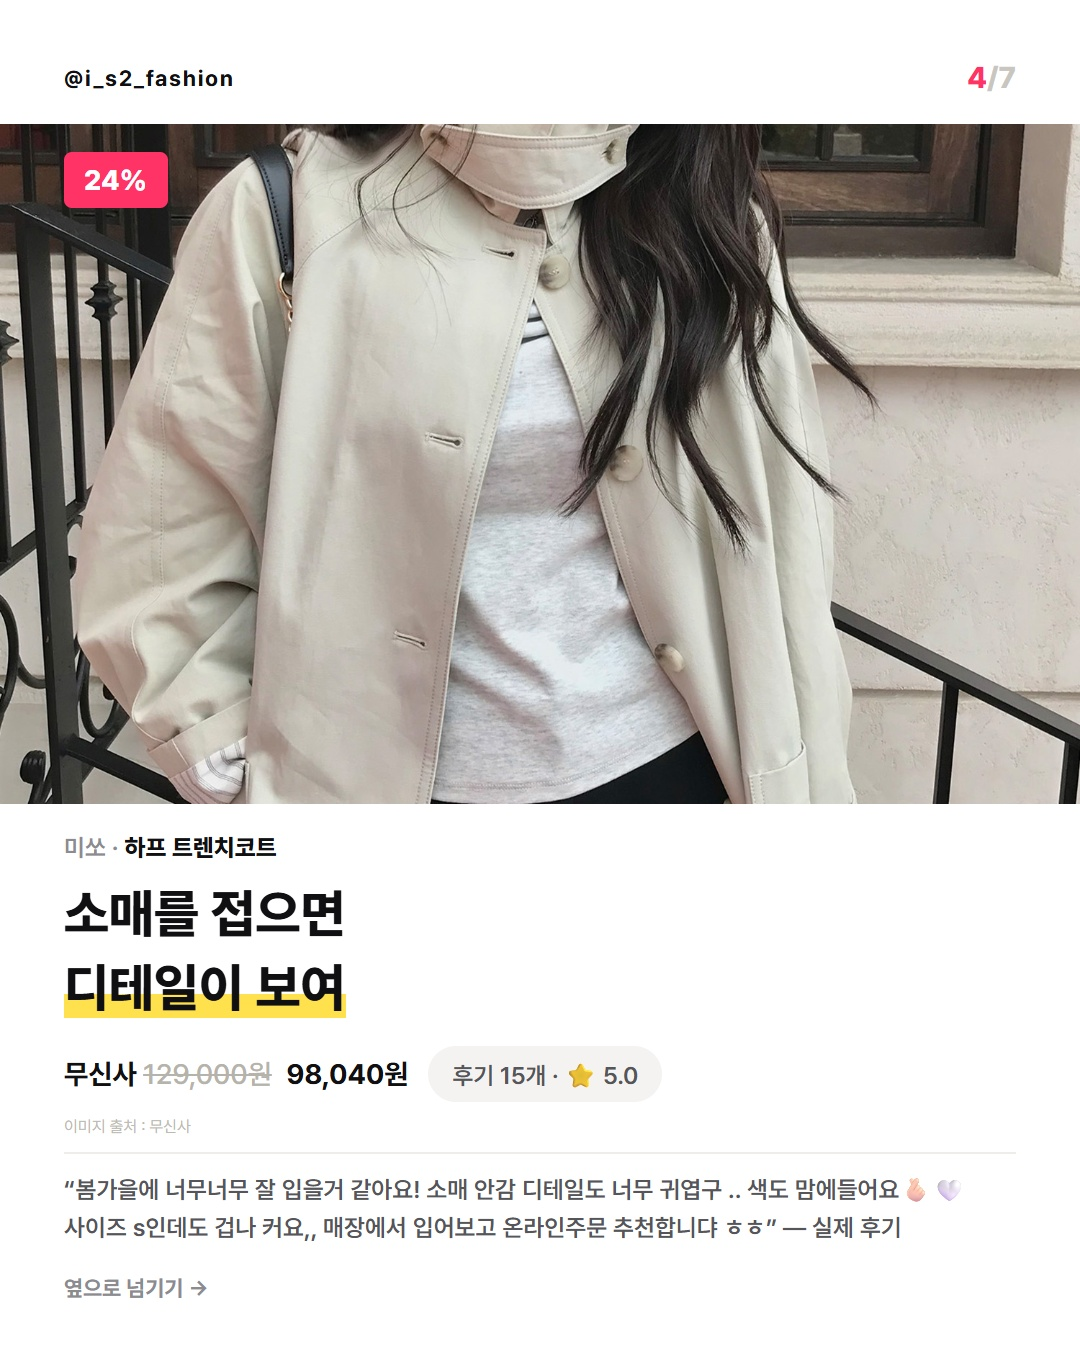
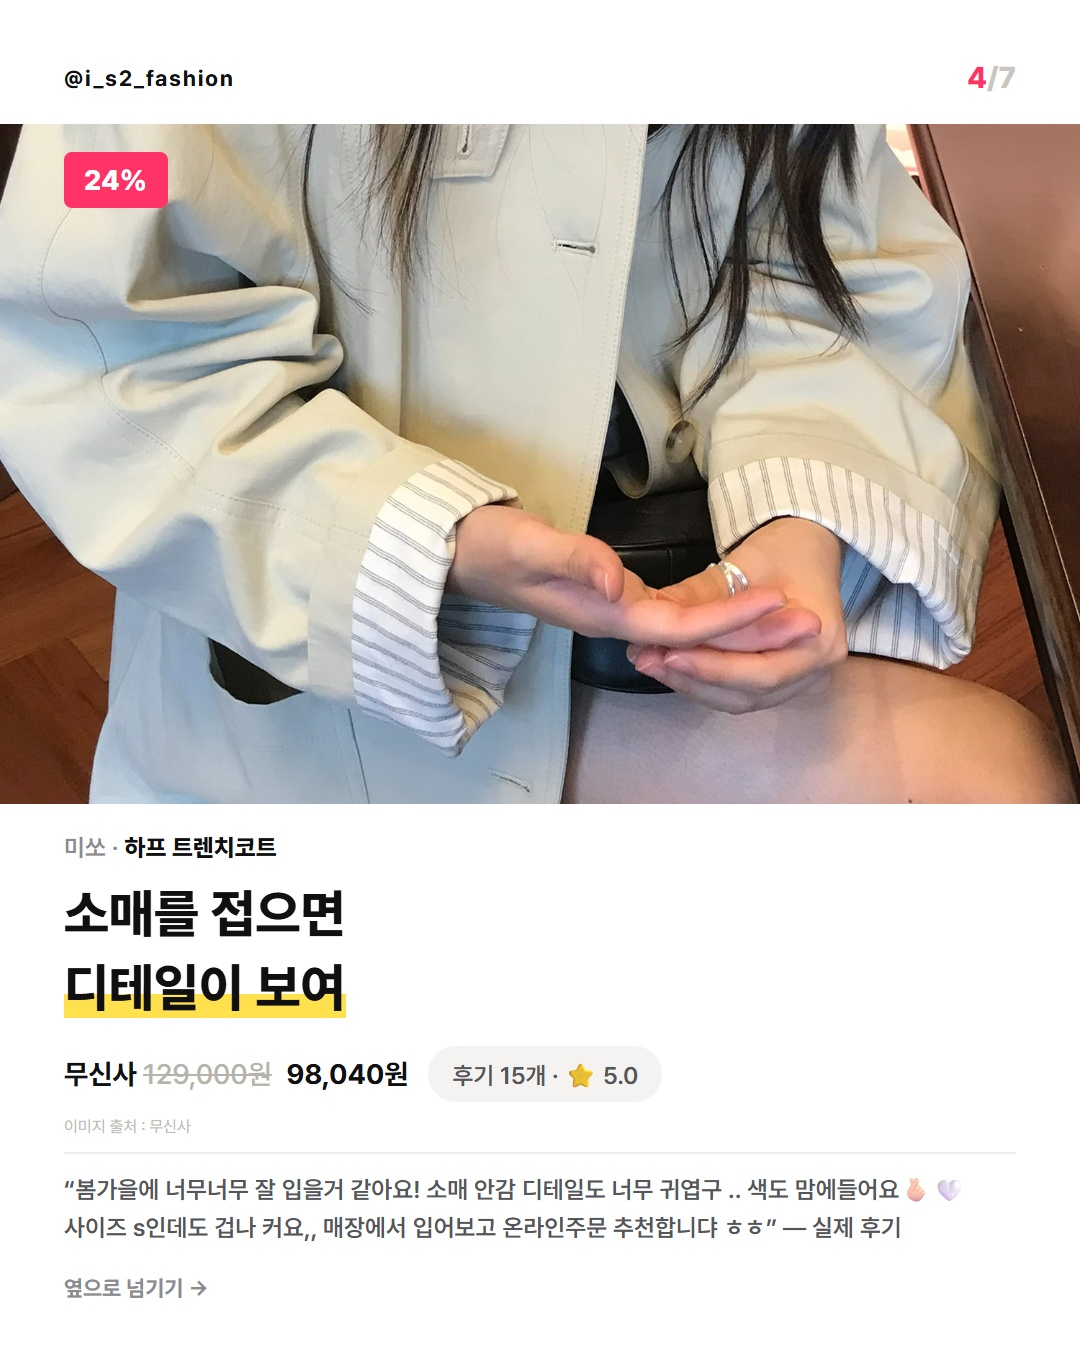
chore: auto-commit by Claude Code (2026-09-04 02:02:40)

diff --git a/card-drafts/early-autumn-outer/index.html b/card-drafts/early-autumn-outer/index.html
@@ -15,12 +15,12 @@
 </style></head><body><div class="head"><h1>초가을 아우터 카드뉴스 · 인스타 후킹형 · @i_s2_fashion</h1><p>표지 → 러플 카디건 · 네이비 재킷 · 하프 트렌치 · 윈드브레이커 · 트랙탑 → CTA (7장)<br>C안 고정 디자인 · 상품 정보: 무신사 2026-09-04 재확인</p></div><div class="toolbar"><button onclick="exportAll()">⬇ 전체 PNG 내보내기 (7장)</button></div><div class="board" id="board"></div>
 <script src="https://cdnjs.cloudflare.com/ajax/libs/html2canvas/1.4.1/html2canvas.min.js"></script><script>
 const cards=[
-{kind:'cover',img:'assets/cover-calvin-big.jpg',pos:'50% 17%',lab:'표지',kicker:'EARLY AUTUMN OUTER',title:'반팔 위에 바로,<br><em>초가을 아우터</em>',sub:'두껍지 않게 분위기만 먼저 바꾸는 다섯 벌'},
-{kind:'item',img:'assets/01-eightseconds-cardigan-crop.jpg',pos:'50% 10%',lab:'에잇세컨즈',badge:'9%',prod:'에잇세컨즈 · <b>러플 긴소매 카디건</b>',title:'진주 단추는 뻑뻑해도<br><em>디자인이 이긴다</em>',meta:'무신사 <s>69,900원</s> 63,610원',proof:'후기 3개 · ⭐ 5.0',sp:'“디자인도 맘에 들고 느낌도 좋아요 단점이라면 단추가 진주라서 좀 빡셉니다. 그래도 그런 단점을 상쇄하는 디자인이에요.” —&nbsp;실제&nbsp;후기'},
-{kind:'item',img:'assets/02-polo-big.jpg',fit:'contain',pos:'50% 50%',lab:'폴로 랄프 로렌',badge:'5%',prod:'폴로 랄프 로렌 · <b>빅 재킷 네이비</b>',title:'해링턴보다<br><em>빅 재킷</em>',meta:'무신사 <s>499,000원</s> 474,050원',proof:'후기 6개 · ⭐ 4.8',sp:'“비싸서 매번 쳐다만 보던 폴로 재킷 구매했습니다. 다른 폴로의 워크 재킷류가 많았지만 해링턴 재킷보다는 빅재킷이 제일 이뻐보여서 이걸로 장만했습니다.” —&nbsp;실제&nbsp;후기'},
-{kind:'item',img:'assets/03-mixxo-full.jpg',pos:'50% 56%',lab:'미쏘',badge:'24%',prod:'미쏘 · <b>하프 트렌치코트</b>',title:'소매를 접으면<br><em>디테일이 보여</em>',meta:'무신사 <s>129,000원</s> 98,040원',proof:'후기 15개 · ⭐ 5.0',sp:'“봄가을에 너무너무 잘 입을거 같아요! 소매 안감 디테일도 너무 귀엽구 .. 색도 맘에들어요🫰🏻🤍 사이즈 s인데도 겁나 커요,, 매장에서 입어보고 온라인주문 추천합니댜 ㅎㅎ” —&nbsp;실제&nbsp;후기'},
-{kind:'item',img:'assets/04-calvin-studio-back.jpg',pos:'50% 30%',lab:'캘빈클라인 진',badge:'40%',prod:'캘빈클라인 진 · <b>콘트라스트 스티치 윈드브레이커</b>',title:'가볍게 걸치고<br><em>뒤는 확실하게</em>',meta:'무신사 <s>219,000원</s> 131,400원',proof:'후기 98개 · ⭐ 4.9',sp:'“뒤에 백로고가 너무 예뻐요. 간절기에 들고 다니고 걸치기 좋은 두께감입니다. 가벼워요” —&nbsp;실제&nbsp;후기'},
-{kind:'item',img:'assets/05-adidas-big.jpg',pos:'50% 66%',lab:'아디다스',badge:'17%',prod:'아디다스 · <b>클래식 트랙탑</b>',title:'색감 예쁜데<br><em>밑단 시보리 짱짱</em>',meta:'무신사 <s>109,000원</s> 90,470원',proof:'후기 9개 · ⭐ 5.0',sp:'“디자인이랑 색감 진짜 이뻐요! 그리고 밑단 시보리가 엄청 짱짱해서 골반에 딱 걸쳐요 이 부분 고려해서 사이즈 선택해야 할 것 같아요” —&nbsp;실제&nbsp;후기'},
+{kind:'cover',img:'assets/cover-calvin-moto.jpg',pos:'50% 34%',lab:'표지',kicker:'EARLY AUTUMN OUTER',title:'반팔 위에 바로,<br><em>초가을 아우터</em>',sub:'두껍지 않게 분위기만 먼저 바꾸는 다섯 벌'},
+{kind:'item',img:'assets/01-eightseconds-placket-crop.jpg',pos:'50% 38%',lab:'에잇세컨즈',badge:'9%',prod:'에잇세컨즈 · <b>러플 긴소매 카디건</b>',title:'진주 단추는 뻑뻑해도<br><em>디자인이 이긴다</em>',meta:'무신사 <s>69,900원</s> 63,610원',proof:'후기 3개 · ⭐ 5.0',sp:'“디자인도 맘에 들고 느낌도 좋아요 단점이라면 단추가 진주라서 좀 빡셉니다. 그래도 그런 단점을 상쇄하는 디자인이에요.” —&nbsp;실제&nbsp;후기'},
+{kind:'item',img:'assets/02-polo-collar.jpg',pos:'50% 30%',lab:'폴로 랄프 로렌',badge:'5%',prod:'폴로 랄프 로렌 · <b>빅 재킷 네이비</b>',title:'해링턴보다<br><em>빅 재킷</em>',meta:'무신사 <s>499,000원</s> 474,050원',proof:'후기 6개 · ⭐ 4.8',sp:'“비싸서 매번 쳐다만 보던 폴로 재킷 구매했습니다. 다른 폴로의 워크 재킷류가 많았지만 해링턴 재킷보다는 빅재킷이 제일 이뻐보여서 이걸로 장만했습니다.” —&nbsp;실제&nbsp;후기'},
+{kind:'item',img:'assets/03-mixxo-cuffdetail.jpg',pos:'50% 50%',lab:'미쏘',badge:'24%',prod:'미쏘 · <b>하프 트렌치코트</b>',title:'소매를 접으면<br><em>디테일이 보여</em>',meta:'무신사 <s>129,000원</s> 98,040원',proof:'후기 15개 · ⭐ 5.0',sp:'“봄가을에 너무너무 잘 입을거 같아요! 소매 안감 디테일도 너무 귀엽구 .. 색도 맘에들어요🫰🏻🤍 사이즈 s인데도 겁나 커요,, 매장에서 입어보고 온라인주문 추천합니댜 ㅎㅎ” —&nbsp;실제&nbsp;후기'},
+{kind:'item',img:'assets/04-calvin-snap-back.jpg',pos:'50% 45%',lab:'캘빈클라인 진',badge:'40%',prod:'캘빈클라인 진 · <b>콘트라스트 스티치 윈드브레이커</b>',title:'가볍게 걸치고<br><em>뒤는 확실하게</em>',meta:'무신사 <s>219,000원</s> 131,400원',proof:'후기 98개 · ⭐ 4.9',sp:'“뒤에 백로고가 너무 예뻐요. 간절기에 들고 다니고 걸치기 좋은 두께감입니다. 가벼워요” —&nbsp;실제&nbsp;후기'},
+{kind:'item',img:'assets/05-adidas-chest.jpg',pos:'50% 40%',lab:'아디다스',badge:'17%',prod:'아디다스 · <b>클래식 트랙탑</b>',title:'색감 진짜 예쁜<br><em>하늘색 트랙탑</em>',meta:'무신사 <s>109,000원</s> 90,470원',proof:'후기 9개 · ⭐ 5.0',sp:'“디자인이랑 색감 진짜 이뻐요! 그리고 밑단 시보리가 엄청 짱짱해서 골반에 딱 걸쳐요 이 부분 고려해서 사이즈 선택해야 할 것 같아요” —&nbsp;실제&nbsp;후기'},
 {kind:'cta',img:'../../CARD/zzal/20260830.jpg',lab:'CTA',title:'다 사고 싶지만<br><em>통장은 하나</em>',sub:'이번 가을 가장 먼저 살 한 벌부터<br>골라서 저장해두세요'}];
 function html(c,i){let photo=c.kind==='cta'?`<div class="photo"><img src="${c.img}" alt="" onload="sizePhoto(this)"></div>`:`<div class="photo"><img src="${c.img}" alt="" style="--pos:${c.pos||'50% 20%'};--fit:${c.fit||'cover'}">${c.badge?`<span class="badge">${c.badge}</span>`:''}</div>`,body=c.kind==='cover'?`<div class="caption"><div class="kicker">${c.kicker}</div><h2 class="title">${c.title}</h2><p class="sub">${c.sub}</p></div>`:c.kind==='cta'?`<div class="caption"><h2 class="title">${c.title}</h2><p class="sub">${c.sub}</p></div>`:`<div class="caption"><div class="prodline">${c.prod}</div><h2 class="title">${c.title}</h2><div class="metarow"><span class="meta">${c.meta}</span><span class="proof">${c.proof}</span></div><div class="credit">이미지 출처 : 무신사</div><div class="selling">${c.sp}</div></div>`;return `<div class="card ${c.kind}" id="card${i}"><div class="toprow"><span class="handle">@i_s2_fashion</span><span class="num">${i+1}<i>/7</i></span></div>${photo}${body}<div class="foot">${i<6?'옆으로 넘기기 →':'&nbsp;'}</div></div>`}
 function sizePhoto(img){const wrap=img.parentElement,isCta=wrap.closest('.cta'),maxW=isCta?400:330,maxH=isCta?380:330,ratio=img.naturalWidth/img.naturalHeight;let w=maxW,h=Math.round(w/ratio);if(h>maxH){h=maxH;w=Math.round(h*ratio)}wrap.style.width=w+'px';wrap.style.height=h+'px'}

diff --git a/card-drafts/early-autumn-outer/result.md b/card-drafts/early-autumn-outer/result.md
@@ -51,6 +51,12 @@
     (프레임 배경을 흰색으로 맞춰 경계 없음). 4번 미쏘: 전신 착용컷으로 교체, 코트 칼라~밑단·접은 소매 노출(얼굴 제외).
     5번 캘빈클라인: 지하철 스냅 → **스튜디오 뒷모습 컷**(900×1184)으로 교체, 등판 로고와 재킷 전체. 6번 아디다스: 칼라~밑단 시보리.
 
+12. **이미지 2차 전면 교체 (09-05 · "비율에 어울리는 다른 이미지로 전부")** — 세로 전신컷 크롭을 포기하고 가로 프레임에 맞는 클로즈업·디테일 컷으로 6장 전부 교체.
+    표지: 캘빈클라인 진 라이프스타일 스냅(오토바이 앞, 선글라스 옆얼굴, 등판 로고 크게). 2번: 카디건 앞판 러플·진주 단추·자수 클로즈업(누워 있는 컷, 흰 여백 제거).
+    3번: 폴로 칼라·라벨·로고 클로즈업. 4번: 미쏘 접은 소매 줄무늬 안감 클로즈업. 5번: 캘빈클라인 진 등판 로고 스냅(벽 앞). 6번: 아디다스 가슴 로고·삼선 클로즈업.
+    6번 헤드라인은 사진이 밑단을 안 보여주므로 같은 후기의 다른 문장으로 교체 — "색감 예쁜데 / 밑단 시보리 짱짱" → **"색감 진짜 예쁜 / 하늘색 트랙탑"** (후기 "디자인이랑 색감 진짜 이뻐요").
+    표지는 규칙 1(얼굴 착용컷)을 옆얼굴+선글라스로 충족 — 정면 얼굴 컷 중 가로 비율에 맞는 것이 없어 보고함.
+
 ## 2. 게시 전 검증 (2026-09-04)
 - 무신사 상품 페이지·후기 API로 5종 가격·할인율·후기 수·평점 실측 (아래 표). 할인 검산 5건 일치
   (69,900×0.91≈63,610 / 499,000×0.95=474,050 / 129,000×0.76=98,040 / 219,000×0.60=131,400 / 109,000×0.83=90,470).
